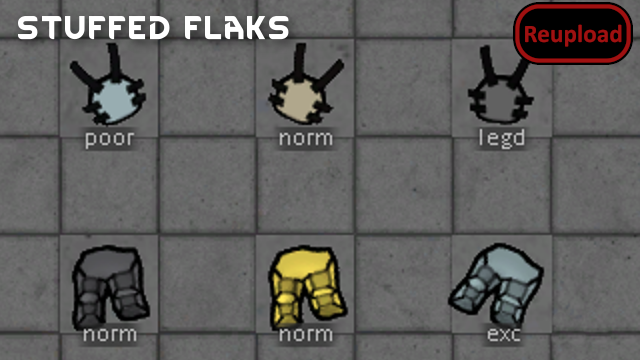
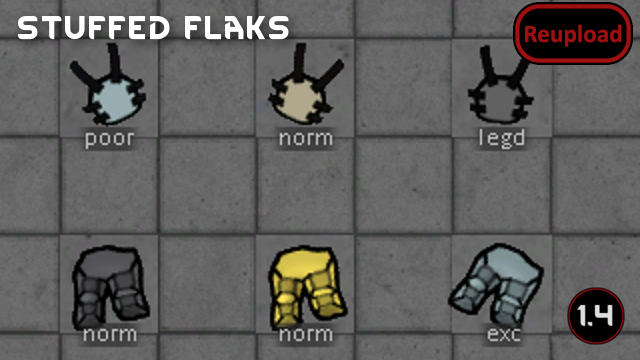
Added support for [url=https://steamcommunity.com/sharedfiles/filedetails/?id=2464804318]Midworld Expanded: Flak Armor[/url]

Changed region(s): [[0.875, 0.7944, 1.0, 0.9778]]

diff --git a/README.md b/README.md
@@ -93,11 +93,13 @@ As is standard with my mods: you may include this mod in a mod pack, and you may
 
 -  See if the the error persists if you just have this mod and its requirements active.
 -  If not, try adding your other mods until it happens again.
--  Post your error-log using https://steamcommunity.com/workshop/filedetails/?id=818773962]HugsLib and command Ctrl+F12
+-  Post your error-log using https://steamcommunity.com/workshop/filedetails/?id=818773962]HugsLib or the standalone https://steamcommunity.com/sharedfiles/filedetails/?id=2873415404]Uploader and command Ctrl+F12
 -  For best support, please use the Discord-channel for error-reporting.
 -  Do not report errors by making a discussion-thread, I get no notification of that.
 -  If you have the solution for a problem, please post it to the GitHub repository.
+-  Use https://github.com/RimSort/RimSort/releases/latest]RimSort to sort your mods
 
 
 
+https://steamcommunity.com/sharedfiles/filedetails/changelog/2030239912]![Image](https://img.shields.io/github/v/release/emipa606/XNDStuffedFlaks?label=latest%20version&style=plastic&color=9f1111&labelColor=black)
 
